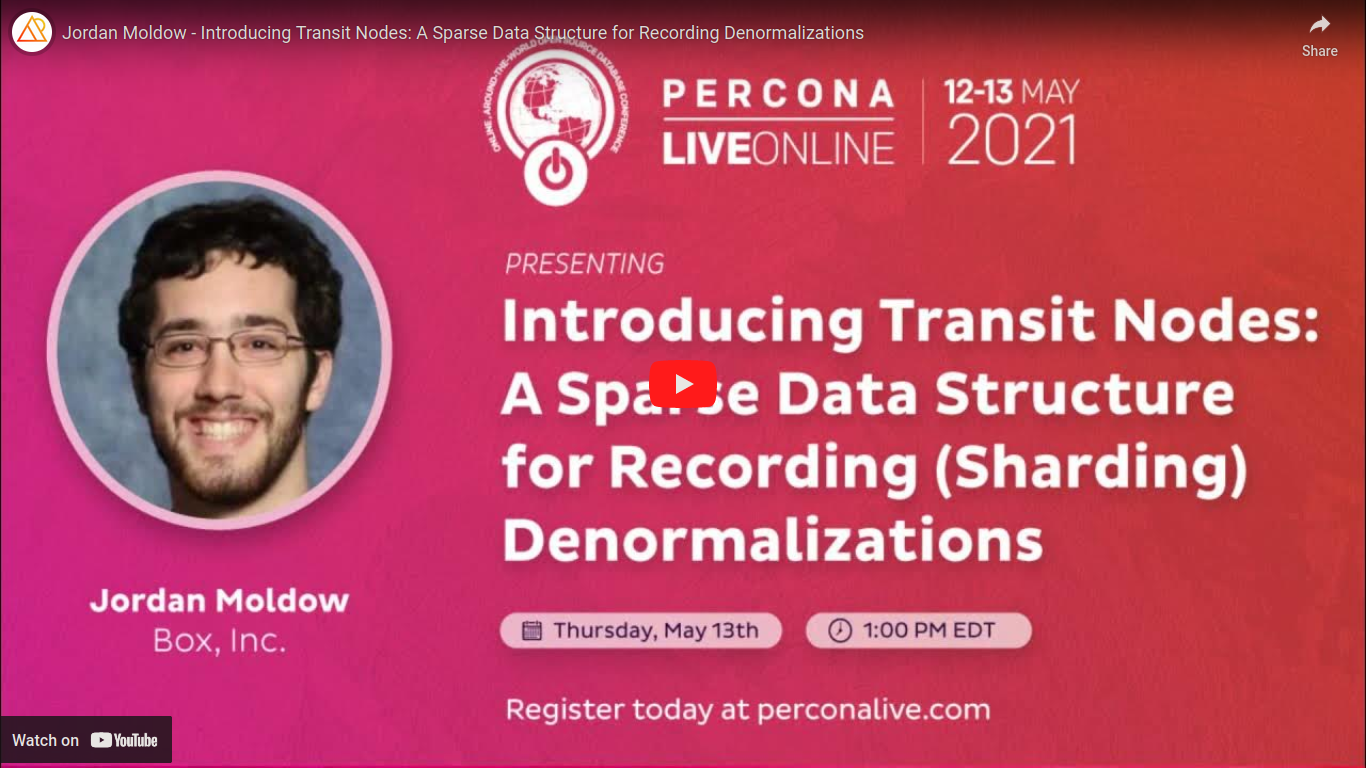
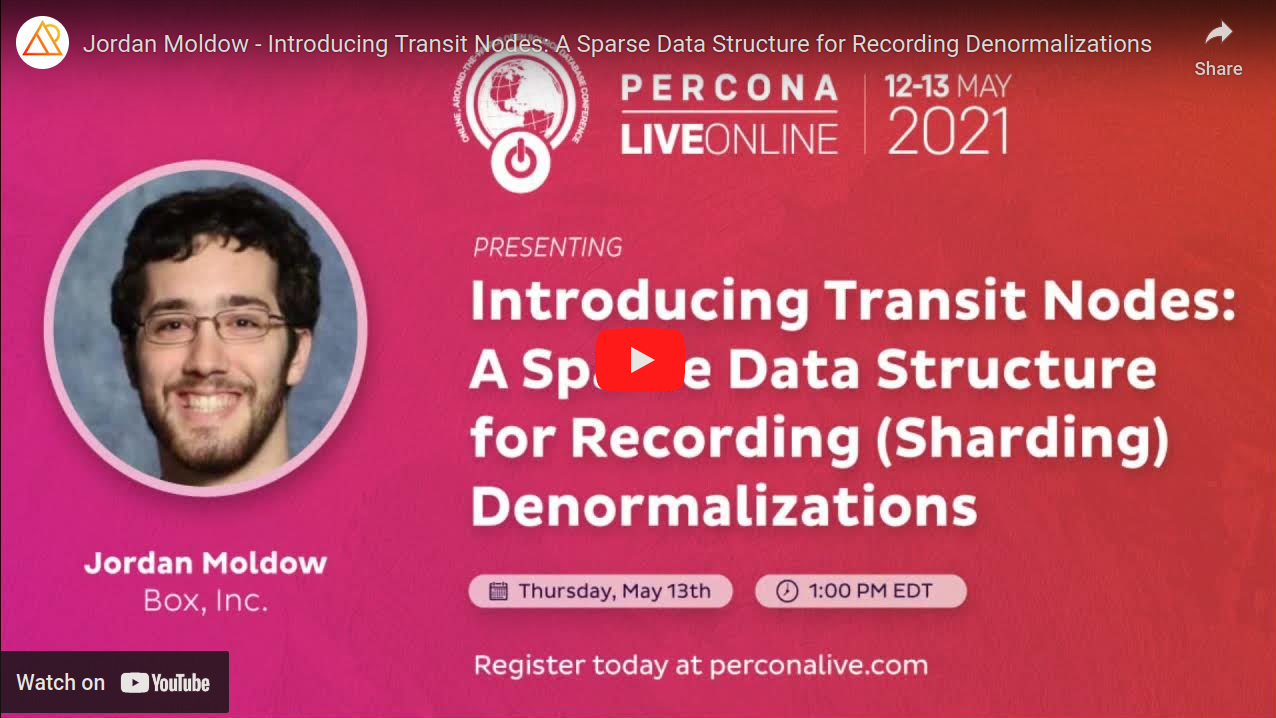
Fix aspect ratio

diff --git a/README.md b/README.md
@@ -93,9 +93,9 @@ The transit node concept was carefully designed with a number of invariants, whi
 We will briefly cover the context of sharding at Box, to provide the motivation for the transit node concept. The rest of the talk will present the semantics, invariants, and behaviors of transit nodes, and some results from our deployment. My hope is that the concept can be more broadly useful beyond what we originally designed it for.
 
 <a href="https://www.youtube.com/watch?v=h9HwP3jJYuY" title="Introducing Transit Nodes - A Sparse Data Structure for Recording Sharding Denormalizations - YouTube - Recording">
-<img src="assets/images/introducing-transit-nodes---a-sparse-data-structure-for-recording-sharding-denormalizations-youtube-recording.png" alt="Introducing Transit Nodes - A Sparse Data Structure for Recording Sharding Denormalizations - YouTube - Recording" width="1366" height="768" style="width:49%; height:49%;">
+<img src="assets/images/introducing-transit-nodes---a-sparse-data-structure-for-recording-sharding-denormalizations-youtube-recording.png" alt="Introducing Transit Nodes - A Sparse Data Structure for Recording Sharding Denormalizations - YouTube - Recording" width="1276" height="718" style="width:49%; aspect-ratio:16/9 auto;">
 </a> <a href="https://app.box.com/s/s5vegq0b7yh6va8op85ftqmt12lqdklt" title="Introducing Transit Nodes - A Sparse Data Structure for Recording Sharding Denormalizations - Slides">
-<img src="assets/images/introducing-transit-nodes---a-sparse-data-structure-for-recording-sharding-denormalizations-box-slides.png" alt="Introducing Transit Nodes - A Sparse Data Structure for Recording Sharding Denormalizations - Slides" width="1320" height="706" style="width:49%; height:49%;">
+<img src="assets/images/introducing-transit-nodes---a-sparse-data-structure-for-recording-sharding-denormalizations-box-slides.png" alt="Introducing Transit Nodes - A Sparse Data Structure for Recording Sharding Denormalizations - Slides" width="1320" height="706" style="width:49%; aspect-ratio:1320/706 auto;">
 </a>
 
 ### Turning Pain Into Gain - A Puppet Unit Testing Story
